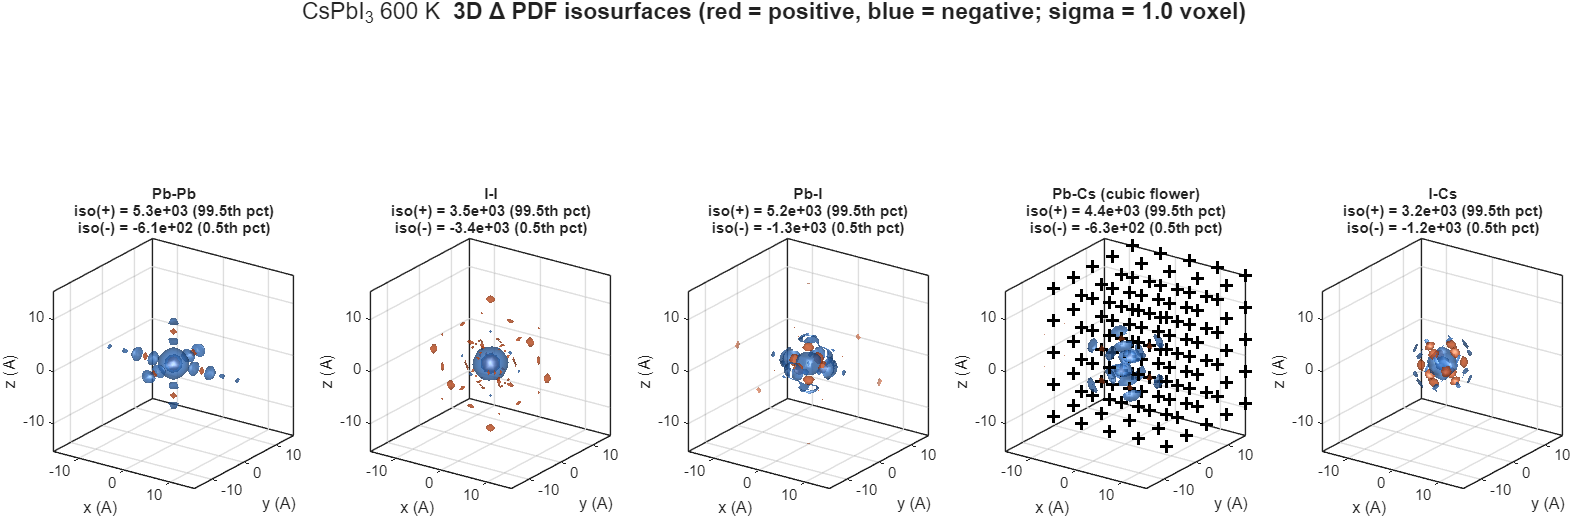
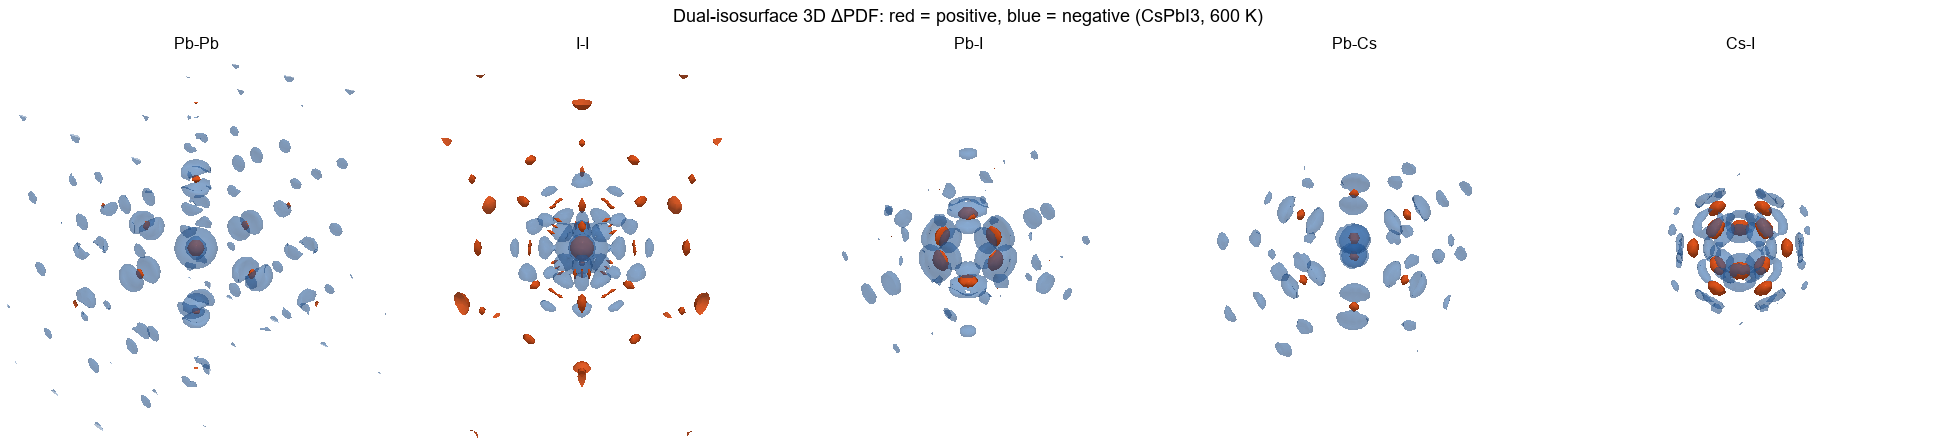
delta-PDF: finer 384^3 compute, three new figures, drop stale ones
Rerun Sq3D on the 600 K demo with n_voxels_per_cell = 16 (real-space
voxel ~ 0.39 A, twice as fine as the 8-voxel demo) so the delta-PDF
peaks render sharp instead of blocky. Replace the three figures in the
delta-PDF section:

  delta_pdf_orthoslices.png     ->  delta_pdf_total_z_cuts.png
       (single L=0/a/2/a column triplet of orthoslices)
       (5 z-cuts of the x-y plane through the total channel,
        showing lattice periodicity z=0 == z=a)
  delta_pdf_with_atoms.png      ->  delta_pdf_partials_z_cuts.png
       (overlay of avg atom positions on a single z plane)
       (3 cross-partials x 3 z values, no overlay)
  delta_pdf_isosurfaces.png     ->  same name, regenerated
       (matplotlib Poly3DCollection, lost inner positive sphere)
       (PyVista with depth peeling; both pos and neg surfaces visible)

Drop docs/figures/delta_pdf_correlation_length.png (orphan) along with
the two superseded figures above.

diff --git a/README.md b/README.md
@@ -182,32 +182,32 @@ still substantial up there.
   partial) for a clean image of one specific plane up to high q.
 
 
-
 ### 3D ΔPDF
 
 The inverse 3D FFT of each Bragg-subtracted partial S(q) gives the
-3D-ΔPDF.
+3D-ΔPDF. The figures below use a finer compute
+(`n_voxels_per_cell = 16`, dx_real ≈ 0.39 Å) than the Sq3D demo above
+so that the real-space features come out sharp.
 
-ΔPDF orthoslices through the origin, all seven X-ray partials × three
-slice planes (`z = 0`, `z = a/2`, `z = a`):
+Total ΔPDF sliced through the x-y plane at `z = 0`, `a/4`, `a/2`,
+`3a/4`, `a`. The first and last panel coincide by lattice periodicity:
 
-![3D delta-PDF orthoslices](docs/figures/delta_pdf_orthoslices.png)
+![Total 3D ΔPDF — z-cuts of the x-y plane](docs/figures/delta_pdf_total_z_cuts.png)
 
-Overlaying the **average atom positions** in each slice (gray = Pb,
-purple = I, orange = Cs) makes the per-atom-pair reading direct: each
-peak in the ΔPDF sits exactly on an average pair vector, with amplitude
-proportional to the displacement-correlation strength at that vector.
-
-![3D delta-PDF with atom positions overlaid](docs/figures/delta_pdf_with_atoms.png)
-
-The Pb-Cs cubic flower has its strongest signal at `z = a/2`: positive
-peaks at every `(±a/2, ±a/2)` Cs body-centre site (4mm symmetry, NN
-distance `√3·a/2 ≈ 5.4 Å`) — the real-space image of Pb-Cs displacement
+Three cross-partial ΔPDFs at `z = 0` (Cs corners and in-plane I face
+sites), `z = a/2` (Pb body-centres and out-of-plane I face sites),
+and `z = a` (≡ z = 0 by periodicity). The Pb-Cs cubic flower lives
+entirely on the `z = a/2` plane: a 4mm-symmetric pattern of positive
+peaks at every `(±a/2, ±a/2)` Cs body-centre site (NN distance
+`√3·a/2 ≈ 5.4 Å`), the real-space image of the Pb-Cs displacement
 correlations along ⟨111⟩ that produce the cubic flower in q-space.
 
-3D dual-isosurface render (red = positive, blue = negative):
+![Three cross partials at three z values](docs/figures/delta_pdf_partials_z_cuts.png)
 
-![3D dual-isosurface, positive and negative ΔPDF](docs/figures/delta_pdf_isosurfaces.png)
+3D dual-isosurface render of five partials, with one positive (red)
+and one negative (blue) iso level per partial:
+
+![Dual-isosurface 3D ΔPDF](docs/figures/delta_pdf_isosurfaces.png)
 
 
 ### Dynamic S(q, ω): the soft-tilt mode and energy decomposition